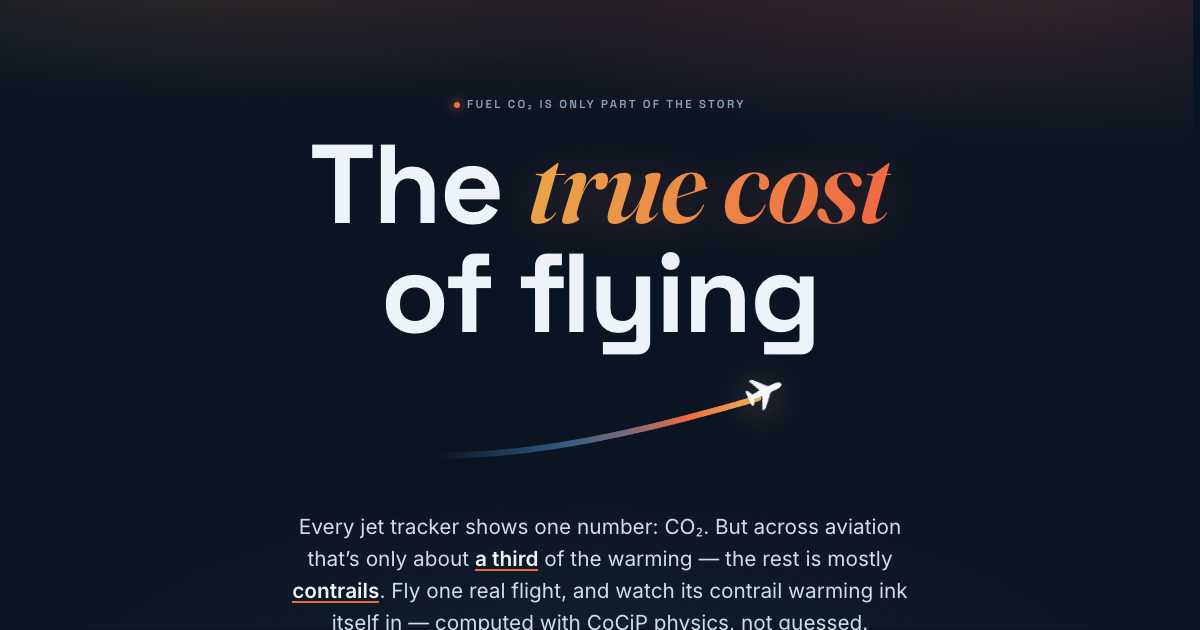
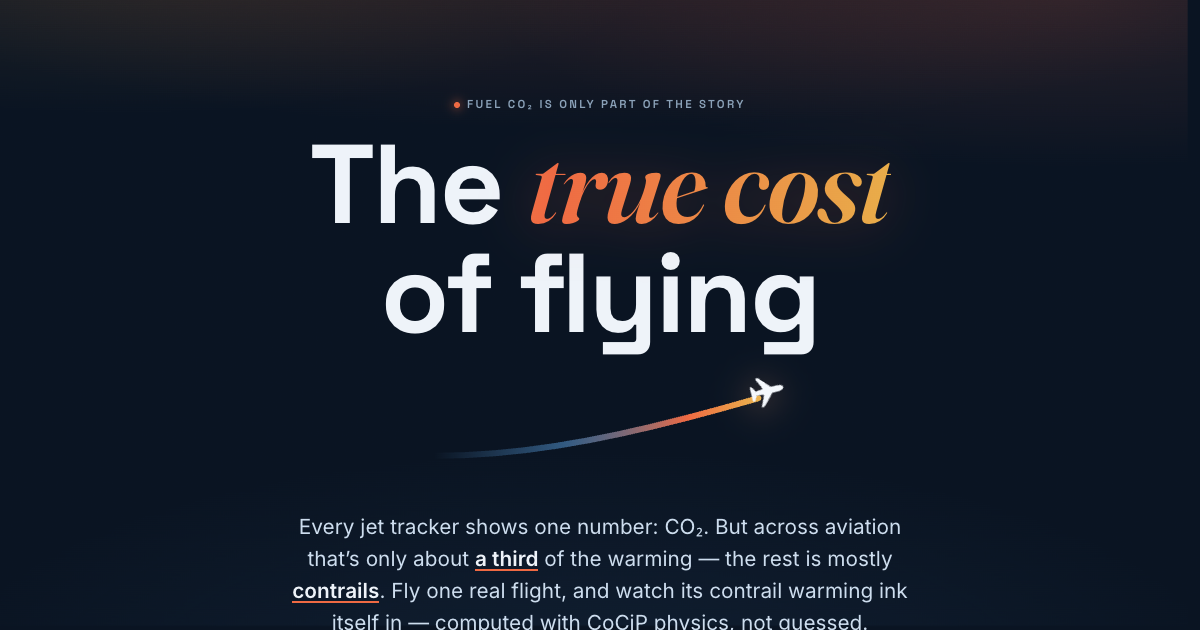
Plane polish: align hero airplane to the contrail (rotate 31); add a plane flying the head of the contrail on the map (IconLayer, north-up); remove the 01 rank watermark; regen OG

diff --git a/frontend/src/components/FlightMap.tsx b/frontend/src/components/FlightMap.tsx
@@ -2,12 +2,48 @@ import { useEffect, useRef, useState } from 'react'
 import maplibregl from 'maplibre-gl'
 import { MapboxOverlay } from '@deck.gl/mapbox'
 import { TripsLayer } from '@deck.gl/geo-layers'
+import { IconLayer } from '@deck.gl/layers'
 import 'maplibre-gl/dist/maplibre-gl.css'
 import { efColor } from '../lib/colors'
 import { loadTrack } from '../lib/data'
 import { reduced } from '../lib/scroll'
 
 const DARK_STYLE = 'https://basemaps.cartocdn.com/gl/dark-matter-gl-style/style.json'
+
+// white top-down airplane (points north) as a data-URI icon for the moving head-of-trail plane
+const PLANE_SVG =
+  '<svg xmlns="http://www.w3.org/2000/svg" width="64" height="64" viewBox="0 0 32 32"><path fill="#ffffff" d="M16 2.6c-1 0-1.7 1.1-1.7 2.7v7.3L3.5 18v2.3l10.8-3.4V22L11 24.6v1.8l5-1.5 5 1.5v-1.8L17.7 22v-5.1l10.8 3.4V18L17.7 12.6V5.3c0-1.6-.7-2.7-1.7-2.7z"/></svg>'
+const PLANE_ICON = 'data:image/svg+xml,' + encodeURIComponent(PLANE_SVG)
+
+// position + heading of the drawing head at animation time t (segments are ~2-point trips, ordered)
+function headAt(trips: Trip[], t: number) {
+  const N = trips.length
+  if (!N) return null
+  const i = Math.max(0, Math.min(N - 1, Math.floor(t)))
+  const path = trips[i].path
+  const a = path[0]
+  const b = path[path.length - 1]
+  const f = Math.max(0, Math.min(1, t - i))
+  const lon = a[0] + (b[0] - a[0]) * f
+  const lat = a[1] + (b[1] - a[1]) * f
+  const bearing = (Math.atan2((b[0] - a[0]) * Math.cos((lat * Math.PI) / 180), b[1] - a[1]) * 180) / Math.PI
+  return { lon, lat, bearing }
+}
+
+const MAP_BEARING = 0
+
+const planeLayer = (head: { lon: number; lat: number; bearing: number } | null) =>
+  new IconLayer({
+    id: 'plane',
+    data: head ? [head] : [],
+    getPosition: (d: any) => [d.lon, d.lat],
+    getIcon: () => ({ url: PLANE_ICON, width: 32, height: 32, anchorX: 16, anchorY: 16, mask: false }),
+    getSize: 26,
+    sizeUnits: 'pixels',
+    getAngle: (d: any) => -d.bearing - MAP_BEARING,
+    billboard: true,
+    parameters: { depthTest: false },
+  } as any)
 
 type Trip = { path: [number, number][]; timestamps: number[]; color: [number, number, number] }
 
@@ -61,14 +97,14 @@ export default function FlightMap({ flightId, owner, date }: { flightId: string;
       center: [-80, 32],
       zoom: 3.4,
       pitch: 46,
-      bearing: -10,
+      bearing: MAP_BEARING,
       attributionControl: { compact: true },
     })
     const overlay = new MapboxOverlay({ interleaved: true, layers: [] })
     map.addControl(overlay as any)
     map.on('load', () => {
       loadedRef.current = true
-      if (boundsRef.current) map.fitBounds(boundsRef.current, { padding: 90, pitch: 46, bearing: -10, duration: 0 })
+      if (boundsRef.current) map.fitBounds(boundsRef.current, { padding: 90, pitch: 46, bearing: MAP_BEARING, duration: 0 })
     })
     mapRef.current = map
     overlayRef.current = overlay
@@ -84,7 +120,7 @@ export default function FlightMap({ flightId, owner, date }: { flightId: string;
       boundsRef.current = bounds
       setTrips(trips)
       if (mapRef.current && loadedRef.current)
-        mapRef.current.fitBounds(bounds, { padding: 90, pitch: 46, bearing: -10, duration: 1200 })
+        mapRef.current.fitBounds(bounds, { padding: 90, pitch: 46, bearing: MAP_BEARING, duration: 1200 })
     })
     return () => { alive = false }
   }, [flightId])
@@ -94,7 +130,8 @@ export default function FlightMap({ flightId, owner, date }: { flightId: string;
     const total = nRef.current
     const overlay = overlayRef.current
     if (reduced()) {
-      overlay?.setProps({ layers: [layerAt(trips, total, total)] }) // fully drawn, static
+      // fully drawn, plane parked at the destination
+      overlay?.setProps({ layers: [layerAt(trips, total, total), planeLayer(headAt(trips, total))] })
       return
     }
     // normalise so the whole contrail draws in ~4.5s regardless of segment count
@@ -107,7 +144,7 @@ export default function FlightMap({ flightId, owner, date }: { flightId: string;
     const tick = () => {
       if (visible) {
         t = (t + step) % total
-        overlay?.setProps({ layers: [layerAt(trips, total, t)] })
+        overlay?.setProps({ layers: [layerAt(trips, total, t), planeLayer(headAt(trips, t))] })
       }
       raf = requestAnimationFrame(tick)
     }

diff --git a/frontend/src/styles.css b/frontend/src/styles.css
@@ -108,10 +108,6 @@ section{ position:relative; }
 .lb-card .stripe{ position:absolute; left:0; top:0; bottom:0; width:4px; }
 /* hero card = rank #1, full width, oversized ghost numeral */
 .lb-hero{ grid-column:span 12; min-height:200px; display:flex; flex-direction:column; justify-content:flex-end; padding:1.6rem 1.7rem; }
-.lb-card .ghost{ position:absolute; right:1.1rem; top:50%; transform:translateY(-50%);
-  font-family:var(--sans); font-weight:700; line-height:.8; letter-spacing:-.05em;
-  font-size:clamp(2.6rem,6vw,3.8rem); color:rgba(255,255,255,.04); pointer-events:none; user-select:none; }
-.lb-hero .ghost{ right:1.9rem; font-size:clamp(6.5rem,13vw,10.5rem); color:rgba(255,255,255,.055); }
 .lb-row{ grid-column:span 6; }
 @media (max-width:720px){ .lb-row{ grid-column:span 12; } }
 .lb-rank{ font-family:var(--sans); font-weight:700; color:var(--muted); font-variant-numeric:tabular-nums; font-size:.95rem; }

diff --git a/frontend/src/components/Hero.tsx b/frontend/src/components/Hero.tsx
@@ -18,7 +18,7 @@ export default function Hero() {
         </defs>
         <path className="trail" d="M12 74 C 96 74, 178 56, 282 26" stroke="url(#trailH)" strokeWidth="5" strokeLinecap="round" />
         {/* SF Symbols airplane glyph at the contrail tip, flying up-right */}
-        <g transform="translate(285 22) rotate(20) scale(1.7) translate(-8 -8)">
+        <g transform="translate(287 21) rotate(31) scale(1.55) translate(-8 -8)">
           <path
             className="jet"
             fill="#f4f8fc"

diff --git a/frontend/src/components/Leaderboard.tsx b/frontend/src/components/Leaderboard.tsx
@@ -42,7 +42,6 @@ export default function Leaderboard({ owners, total }: { owners: OwnerAgg[]; tot
       <div className="lb-grid">
         <Appear className="lb-card lb-hero">
           <span className="stripe" style={{ background: stripeColor(first.tier) }} />
-          <span className="ghost" aria-hidden="true">01</span>
           <div className="lb-top">
             <div>
               <div className="lb-rank">Rank 01</div>
@@ -64,7 +63,6 @@ export default function Leaderboard({ owners, total }: { owners: OwnerAgg[]; tot
         {rest.map((o, i) => (
           <Appear key={o.owner} className="lb-card lb-row" delay={(i % 2) * 60}>
             <span className="stripe" style={{ background: stripeColor(o.tier) }} />
-            <span className="ghost" aria-hidden="true">{String(i + 2).padStart(2, '0')}</span>
             <div className="lb-top">
               <div>
                 <div className="lb-rank">Rank {String(i + 2).padStart(2, '0')}</div>